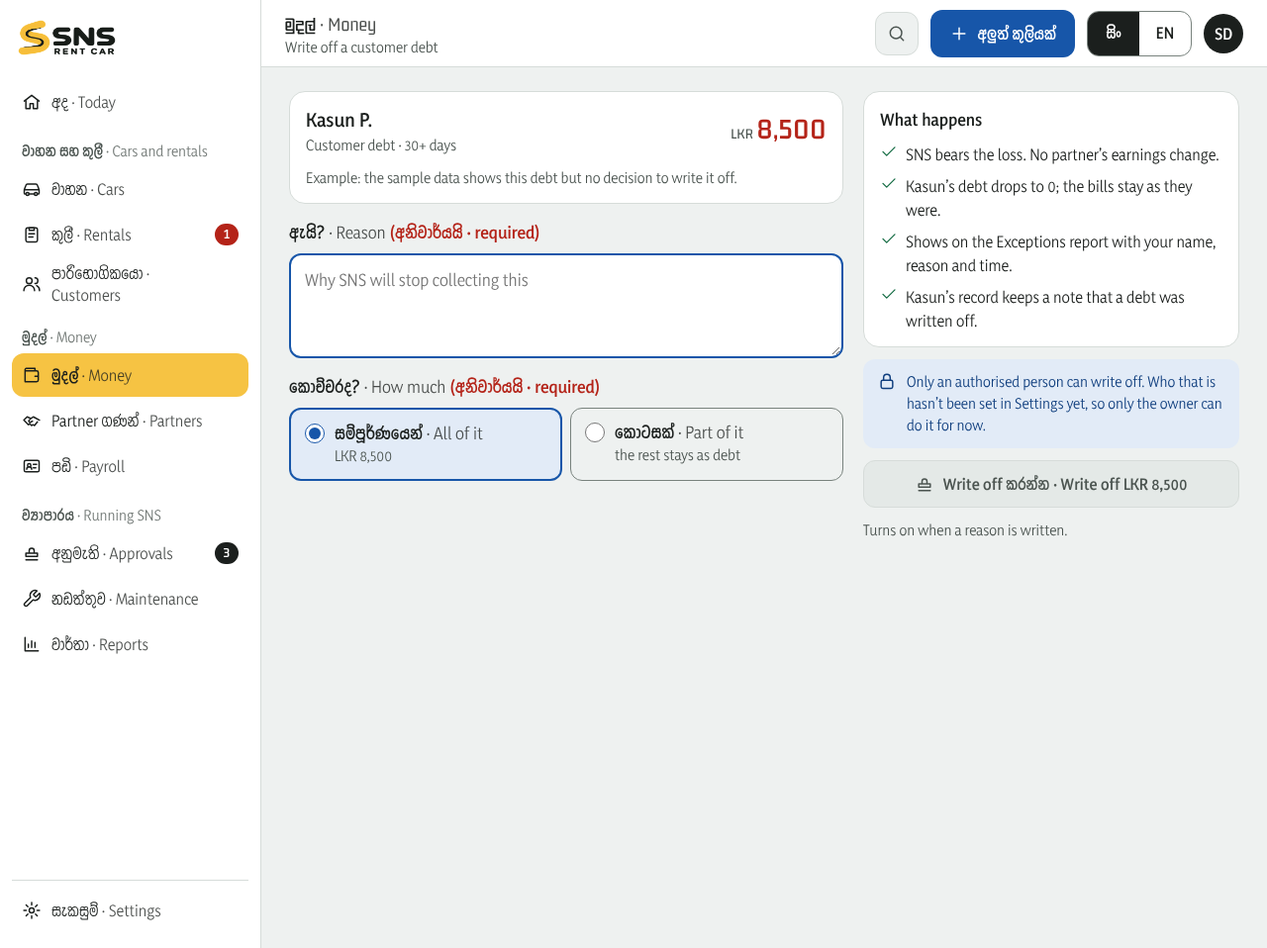
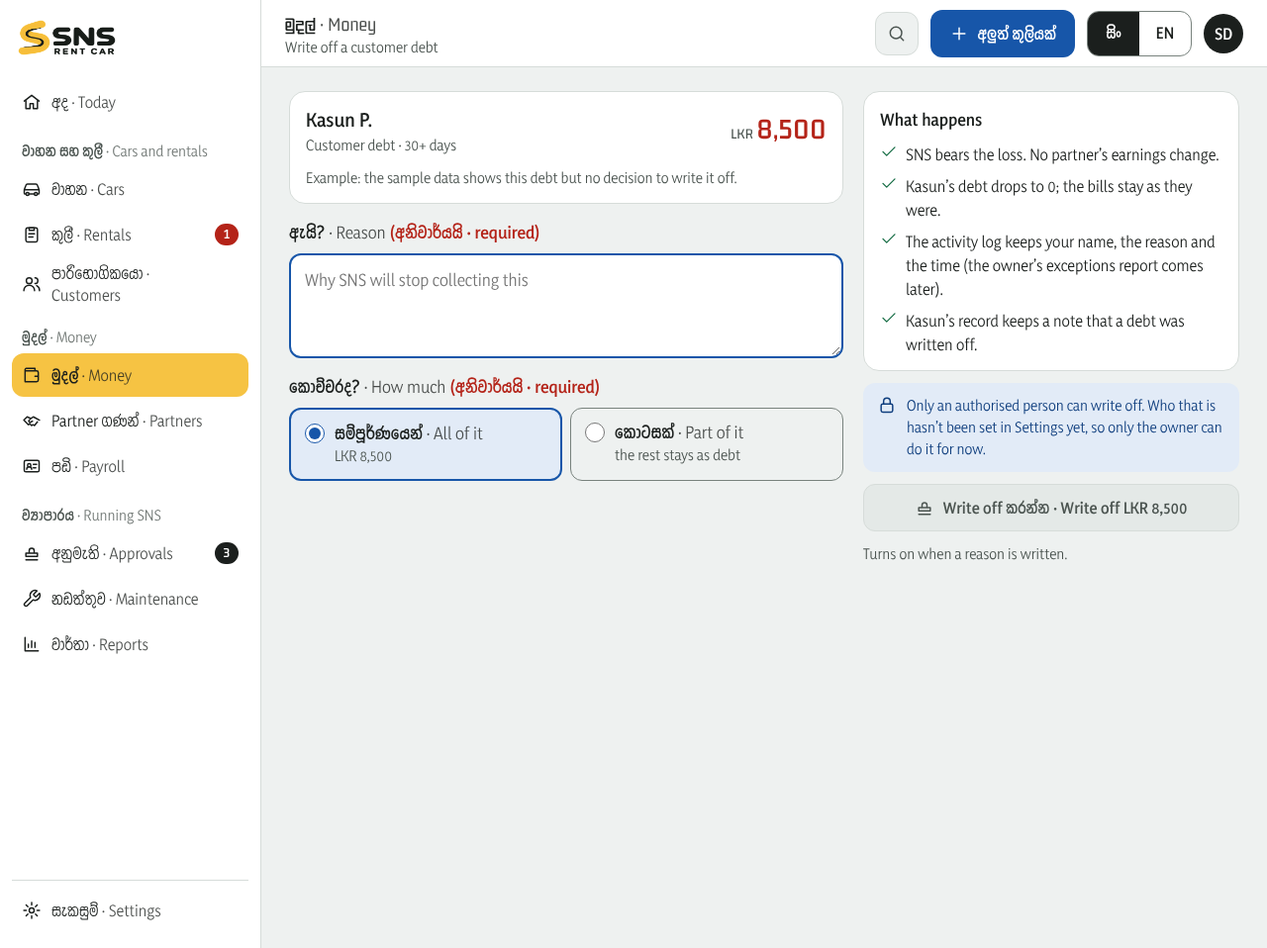
design(screens): 08.6 says the activity log keeps the write-off (#65)
08.6 Write off a debt, Desktop and Phone: "Shows on the Exceptions report"
becomes "The activity log keeps your name, the reason and the time (the
owner's exceptions report comes later)". The exceptions report is Phase 4.

System design 8.3 (Confirmed 11 Nov 2026).
Viewer refreshed: version 40 (1794401340-27f7).

Claude-Session: https://claude.ai/code/session_01JihUABmzkdXJus8B6m8jnW

Changed region(s): [[0.6875, 0.2422, 0.9688, 0.6054]]

diff --git a/screens/previews/html/08-Customers-WriteOff-Desktop.html b/screens/previews/html/08-Customers-WriteOff-Desktop.html
@@ -517,6 +517,16 @@ a.rt-li:hover, a.rt-vrow:hover { background: var(--paper); color: var(--ink); }
   .rt-li-meta { font-size: 14px; }
   .rt-vrow { padding: var(--space-2) 16px; }
 }
+/* TextField: label over a 52px input; required in words; hint and error below (boards 01.1, 01.2). */
+.rt-field { display: flex; flex-direction: column; gap: var(--space-2); min-width: 0; }
+.rt-field-label { font-size: 16px; line-height: 26px; font-weight: 600; }
+.rt-field-req { color: var(--overdue); }
+.rt-input { min-height: 52px; padding: 12px 14px; border: 1.5px solid var(--line-strong); border-radius: var(--radius-md); background: var(--card); color: var(--ink); font: inherit; font-size: 17px; width: 100%; box-sizing: border-box; }
+.rt-input:focus { outline: none; border: 2px solid var(--sapphire); padding: 11.5px 13.5px; }
+.rt-input:focus-visible { outline: 3px solid var(--focus); outline-offset: 2px; }
+.rt-input[aria-invalid="true"] { border-color: var(--overdue); }
+.rt-field-hint { font-size: 14px; line-height: 22px; color: var(--ink-muted); }
+.rt-field-error { font-size: 14px; line-height: 22px; font-weight: 600; color: var(--overdue); }
 </style>
 
 
@@ -537,7 +547,7 @@ a{color:#1756a9}a:hover{color:#0f3e7e}
   <div style="display: flex; flex-direction: column; gap: 8px"><span style="font-size: 16px; line-height: 26px; font-weight: 600">කොච්චරද? <span class="rt-en">· How much</span> <span style="color: var(--overdue)">(අනිවාර්යයි · required)</span></span><div style="display: grid; grid-template-columns: repeat(2, minmax(0, 1fr)); gap: 8px"><label style="display: flex; align-items: flex-start; gap: 10px; padding: 12px 14px; border: 2px solid var(--sapphire); background: var(--sapphire-tint); border-radius: 12px"><input type="radio" checked="" style="width: 20px; height: 20px; margin: 2px 0px 0px; flex: 0 0 auto;"><span style="display: flex; flex-direction: column"><span style="font-size: 16px; line-height: 24px; font-weight: 600">සම්පූර්ණයෙන් <span class="rt-en">· All of it</span></span><span style="font-size: 14px; line-height: 22px; color: var(--ink-muted)">LKR 8,500</span></span></label><label style="display: flex; align-items: flex-start; gap: 10px; padding: 12px 14px; border: 1.5px solid var(--line-strong); border-radius: 12px"><input type="radio" style="width: 20px; height: 20px; margin: 2px 0px 0px; flex: 0 0 auto;"><span style="display: flex; flex-direction: column"><span style="font-size: 16px; line-height: 24px; font-weight: 600">කොටසක් <span class="rt-en">· Part of it</span></span><span style="font-size: 14px; line-height: 22px; color: var(--ink-muted)">the rest stays as debt</span></span></label></div></div>
 </div>
 <div style="flex: 1 1 340px; min-width: 0; display: flex; flex-direction: column; gap: 12px">
-  <section style="display: flex; flex-direction: column; gap: 10px; padding: 14px 16px; background: var(--card); border: 1px solid var(--line); border-radius: 16px"><span style="font-size: 16px; font-weight: 600">What happens</span><div style="display: flex; flex-direction: column; gap: 8px; font-size: 15px; line-height: 24px"><span style="display: flex; gap: 8px"><span data-x-import="Plate.Icon" style="display: contents; flex: none; margin-top: 3px; color: var(--available)"><svg class="rt-ico" width="18" height="18" viewBox="0 0 24 24" fill="none" stroke="currentColor" stroke-width="1.75" stroke-linecap="round" stroke-linejoin="round" aria-hidden="true"><path d="M4 12.5l5 5L20 6.5"></path></svg></span>SNS bears the loss. No partner’s earnings change.</span><span style="display: flex; gap: 8px"><span data-x-import="Plate.Icon" style="display: contents; flex: none; margin-top: 3px; color: var(--available)"><svg class="rt-ico" width="18" height="18" viewBox="0 0 24 24" fill="none" stroke="currentColor" stroke-width="1.75" stroke-linecap="round" stroke-linejoin="round" aria-hidden="true"><path d="M4 12.5l5 5L20 6.5"></path></svg></span>Kasun’s debt drops to 0; the bills stay as they were.</span><span style="display: flex; gap: 8px"><span data-x-import="Plate.Icon" style="display: contents; flex: none; margin-top: 3px; color: var(--available)"><svg class="rt-ico" width="18" height="18" viewBox="0 0 24 24" fill="none" stroke="currentColor" stroke-width="1.75" stroke-linecap="round" stroke-linejoin="round" aria-hidden="true"><path d="M4 12.5l5 5L20 6.5"></path></svg></span>Shows on the Exceptions report with your name, reason and time.</span><span style="display: flex; gap: 8px"><span data-x-import="Plate.Icon" style="display: contents; flex: none; margin-top: 3px; color: var(--available)"><svg class="rt-ico" width="18" height="18" viewBox="0 0 24 24" fill="none" stroke="currentColor" stroke-width="1.75" stroke-linecap="round" stroke-linejoin="round" aria-hidden="true"><path d="M4 12.5l5 5L20 6.5"></path></svg></span>Kasun’s record keeps a note that a debt was written off.</span></div></section>
+  <section style="display: flex; flex-direction: column; gap: 10px; padding: 14px 16px; background: var(--card); border: 1px solid var(--line); border-radius: 16px"><span style="font-size: 16px; font-weight: 600">What happens</span><div style="display: flex; flex-direction: column; gap: 8px; font-size: 15px; line-height: 24px"><span style="display: flex; gap: 8px"><span data-x-import="Plate.Icon" style="display: contents; flex: none; margin-top: 3px; color: var(--available)"><svg class="rt-ico" width="18" height="18" viewBox="0 0 24 24" fill="none" stroke="currentColor" stroke-width="1.75" stroke-linecap="round" stroke-linejoin="round" aria-hidden="true"><path d="M4 12.5l5 5L20 6.5"></path></svg></span>SNS bears the loss. No partner’s earnings change.</span><span style="display: flex; gap: 8px"><span data-x-import="Plate.Icon" style="display: contents; flex: none; margin-top: 3px; color: var(--available)"><svg class="rt-ico" width="18" height="18" viewBox="0 0 24 24" fill="none" stroke="currentColor" stroke-width="1.75" stroke-linecap="round" stroke-linejoin="round" aria-hidden="true"><path d="M4 12.5l5 5L20 6.5"></path></svg></span>Kasun’s debt drops to 0; the bills stay as they were.</span><span style="display: flex; gap: 8px"><span data-x-import="Plate.Icon" style="display: contents; flex: none; margin-top: 3px; color: var(--available)"><svg class="rt-ico" width="18" height="18" viewBox="0 0 24 24" fill="none" stroke="currentColor" stroke-width="1.75" stroke-linecap="round" stroke-linejoin="round" aria-hidden="true"><path d="M4 12.5l5 5L20 6.5"></path></svg></span>The activity log keeps your name, the reason and the time (the owner’s exceptions report comes later).</span><span style="display: flex; gap: 8px"><span data-x-import="Plate.Icon" style="display: contents; flex: none; margin-top: 3px; color: var(--available)"><svg class="rt-ico" width="18" height="18" viewBox="0 0 24 24" fill="none" stroke="currentColor" stroke-width="1.75" stroke-linecap="round" stroke-linejoin="round" aria-hidden="true"><path d="M4 12.5l5 5L20 6.5"></path></svg></span>Kasun’s record keeps a note that a debt was written off.</span></div></section>
   <div style="display: flex; gap: 10px; padding: 12px 14px; background: var(--sapphire-tint); border-radius: 12px; font-size: 14px; line-height: 22px; color: var(--sapphire-strong)"><span data-x-import="Plate.Icon" style="display: contents; flex: none"><svg class="rt-ico" width="20" height="20" viewBox="0 0 24 24" fill="none" stroke="currentColor" stroke-width="1.75" stroke-linecap="round" stroke-linejoin="round" aria-hidden="true"><rect x="5" y="11" width="14" height="10" rx="2"></rect><path d="M8 11V8a4 4 0 0 1 8 0v3"></path></svg></span><span>Only an authorised person can write off. Who that is hasn’t been set in Settings yet, so only the owner can do it for now.</span></div>
   <span data-x-import="Plate.Button" style="display: contents;"><button disabled="" type="button" class="rt-btn rt-btn-primary rt-btn-full"><svg class="rt-ico" width="20" height="20" viewBox="0 0 24 24" fill="none" stroke="currentColor" stroke-width="1.75" stroke-linecap="round" stroke-linejoin="round" aria-hidden="true"><path d="M9 12V9a3 3 0 1 1 6 0v3M5 12h14v4H5zM5 20h14"></path></svg><span><span style="display: contents;">Write off කරන්න · Write off LKR 8,500</span></span></button></span>
   <span style="font-size: 14px; line-height: 22px; color: var(--ink-muted)">Turns on when a reason is written.</span>

diff --git a/screens/previews/html/08-Customers-WriteOff-Phone.html b/screens/previews/html/08-Customers-WriteOff-Phone.html
@@ -517,6 +517,16 @@ a.rt-li:hover, a.rt-vrow:hover { background: var(--paper); color: var(--ink); }
   .rt-li-meta { font-size: 14px; }
   .rt-vrow { padding: var(--space-2) 16px; }
 }
+/* TextField: label over a 52px input; required in words; hint and error below (boards 01.1, 01.2). */
+.rt-field { display: flex; flex-direction: column; gap: var(--space-2); min-width: 0; }
+.rt-field-label { font-size: 16px; line-height: 26px; font-weight: 600; }
+.rt-field-req { color: var(--overdue); }
+.rt-input { min-height: 52px; padding: 12px 14px; border: 1.5px solid var(--line-strong); border-radius: var(--radius-md); background: var(--card); color: var(--ink); font: inherit; font-size: 17px; width: 100%; box-sizing: border-box; }
+.rt-input:focus { outline: none; border: 2px solid var(--sapphire); padding: 11.5px 13.5px; }
+.rt-input:focus-visible { outline: 3px solid var(--focus); outline-offset: 2px; }
+.rt-input[aria-invalid="true"] { border-color: var(--overdue); }
+.rt-field-hint { font-size: 14px; line-height: 22px; color: var(--ink-muted); }
+.rt-field-error { font-size: 14px; line-height: 22px; font-weight: 600; color: var(--overdue); }
 </style>
 
 
@@ -546,7 +556,7 @@ a{color:#1756a9}a:hover{color:#0f3e7e}
 <div style="display: flex; flex-direction: column; gap: 8px"><span style="font-size: 16px; line-height: 26px; font-weight: 600">කොච්චරද? <span class="rt-en">· How much</span> <span style="color: var(--overdue)">(අනිවාර්යයි · required)</span></span><div style="display: grid; grid-template-columns: repeat(2, minmax(0, 1fr)); gap: 8px"><label style="display: flex; align-items: flex-start; gap: 10px; padding: 12px 14px; border: 2px solid var(--sapphire); background: var(--sapphire-tint); border-radius: 12px"><input checked="" style="width: 20px; height: 20px; margin: 2px 0px 0px; flex: 0 0 auto;" type="radio"><span style="display: flex; flex-direction: column"><span style="font-size: 16px; line-height: 24px; font-weight: 600">සම්පූර්ණයෙන් <span class="rt-en">· All of it</span></span><span style="font-size: 14px; line-height: 22px; color: var(--ink-muted)">LKR 8,500</span></span></label><label style="display: flex; align-items: flex-start; gap: 10px; padding: 12px 14px; border: 1.5px solid var(--line-strong); border-radius: 12px"><input style="width: 20px; height: 20px; margin: 2px 0px 0px; flex: 0 0 auto;" type="radio"><span style="display: flex; flex-direction: column"><span style="font-size: 16px; line-height: 24px; font-weight: 600">කොටසක් <span class="rt-en">· Part of it</span></span><span style="font-size: 14px; line-height: 22px; color: var(--ink-muted)">the rest stays as debt</span></span></label></div></div>
 </div>
 <div style="flex: 1 1 340px; min-width: 0; display: flex; flex-direction: column; gap: 12px">
-<section style="display: flex; flex-direction: column; gap: 10px; padding: 14px 16px; background: var(--card); border: 1px solid var(--line); border-radius: 16px"><span style="font-size: 16px; font-weight: 600">What happens</span><div style="display: flex; flex-direction: column; gap: 8px; font-size: 15px; line-height: 24px"><span style="display: flex; gap: 8px"><span data-x-import="Plate.Icon" style="display: contents; flex: none; margin-top: 3px; color: var(--available)"><svg class="rt-ico" width="18" height="18" viewBox="0 0 24 24" fill="none" stroke="currentColor" stroke-width="1.75" stroke-linecap="round" stroke-linejoin="round" aria-hidden="true"><path d="M4 12.5l5 5L20 6.5"></path></svg></span>SNS bears the loss. No partner’s earnings change.</span><span style="display: flex; gap: 8px"><span data-x-import="Plate.Icon" style="display: contents; flex: none; margin-top: 3px; color: var(--available)"><svg class="rt-ico" width="18" height="18" viewBox="0 0 24 24" fill="none" stroke="currentColor" stroke-width="1.75" stroke-linecap="round" stroke-linejoin="round" aria-hidden="true"><path d="M4 12.5l5 5L20 6.5"></path></svg></span>Kasun’s debt drops to 0; the bills stay as they were.</span><span style="display: flex; gap: 8px"><span data-x-import="Plate.Icon" style="display: contents; flex: none; margin-top: 3px; color: var(--available)"><svg class="rt-ico" width="18" height="18" viewBox="0 0 24 24" fill="none" stroke="currentColor" stroke-width="1.75" stroke-linecap="round" stroke-linejoin="round" aria-hidden="true"><path d="M4 12.5l5 5L20 6.5"></path></svg></span>Shows on the Exceptions report with your name, reason and time.</span><span style="display: flex; gap: 8px"><span data-x-import="Plate.Icon" style="display: contents; flex: none; margin-top: 3px; color: var(--available)"><svg class="rt-ico" width="18" height="18" viewBox="0 0 24 24" fill="none" stroke="currentColor" stroke-width="1.75" stroke-linecap="round" stroke-linejoin="round" aria-hidden="true"><path d="M4 12.5l5 5L20 6.5"></path></svg></span>Kasun’s record keeps a note that a debt was written off.</span></div></section>
+<section style="display: flex; flex-direction: column; gap: 10px; padding: 14px 16px; background: var(--card); border: 1px solid var(--line); border-radius: 16px"><span style="font-size: 16px; font-weight: 600">What happens</span><div style="display: flex; flex-direction: column; gap: 8px; font-size: 15px; line-height: 24px"><span style="display: flex; gap: 8px"><span data-x-import="Plate.Icon" style="display: contents; flex: none; margin-top: 3px; color: var(--available)"><svg class="rt-ico" width="18" height="18" viewBox="0 0 24 24" fill="none" stroke="currentColor" stroke-width="1.75" stroke-linecap="round" stroke-linejoin="round" aria-hidden="true"><path d="M4 12.5l5 5L20 6.5"></path></svg></span>SNS bears the loss. No partner’s earnings change.</span><span style="display: flex; gap: 8px"><span data-x-import="Plate.Icon" style="display: contents; flex: none; margin-top: 3px; color: var(--available)"><svg class="rt-ico" width="18" height="18" viewBox="0 0 24 24" fill="none" stroke="currentColor" stroke-width="1.75" stroke-linecap="round" stroke-linejoin="round" aria-hidden="true"><path d="M4 12.5l5 5L20 6.5"></path></svg></span>Kasun’s debt drops to 0; the bills stay as they were.</span><span style="display: flex; gap: 8px"><span data-x-import="Plate.Icon" style="display: contents; flex: none; margin-top: 3px; color: var(--available)"><svg class="rt-ico" width="18" height="18" viewBox="0 0 24 24" fill="none" stroke="currentColor" stroke-width="1.75" stroke-linecap="round" stroke-linejoin="round" aria-hidden="true"><path d="M4 12.5l5 5L20 6.5"></path></svg></span>The activity log keeps your name, the reason and the time (the owner’s exceptions report comes later).</span><span style="display: flex; gap: 8px"><span data-x-import="Plate.Icon" style="display: contents; flex: none; margin-top: 3px; color: var(--available)"><svg class="rt-ico" width="18" height="18" viewBox="0 0 24 24" fill="none" stroke="currentColor" stroke-width="1.75" stroke-linecap="round" stroke-linejoin="round" aria-hidden="true"><path d="M4 12.5l5 5L20 6.5"></path></svg></span>Kasun’s record keeps a note that a debt was written off.</span></div></section>
 <div style="display: flex; gap: 10px; padding: 12px 14px; background: var(--sapphire-tint); border-radius: 12px; font-size: 14px; line-height: 22px; color: var(--sapphire-strong)"><span data-x-import="Plate.Icon" style="display: contents; flex: none"><svg class="rt-ico" width="20" height="20" viewBox="0 0 24 24" fill="none" stroke="currentColor" stroke-width="1.75" stroke-linecap="round" stroke-linejoin="round" aria-hidden="true"><rect x="5" y="11" width="14" height="10" rx="2"></rect><path d="M8 11V8a4 4 0 0 1 8 0v3"></path></svg></span><span>Only an authorised person can write off. Who that is hasn’t been set in Settings yet, so only the owner can do it for now.</span></div>
 <span data-x-import="Plate.Button" style="display: contents;"><button disabled="" type="button" class="rt-btn rt-btn-primary rt-btn-full"><svg class="rt-ico" width="20" height="20" viewBox="0 0 24 24" fill="none" stroke="currentColor" stroke-width="1.75" stroke-linecap="round" stroke-linejoin="round" aria-hidden="true"><path d="M9 12V9a3 3 0 1 1 6 0v3M5 12h14v4H5zM5 20h14"></path></svg><span><span style="display: contents;">Write off කරන්න · Write off LKR 8,500</span></span></button></span>
 <span style="font-size: 14px; line-height: 22px; color: var(--ink-muted)">Turns on when a reason is written.</span>

diff --git a/screens/canvas/08-Customers-WriteOff-Phone.dc.html b/screens/canvas/08-Customers-WriteOff-Phone.dc.html
@@ -36,7 +36,7 @@ a{color:#1756a9}a:hover{color:#0f3e7e}
 <div style="display: flex; flex-direction: column; gap: 8px"><span style="font-size: 16px; line-height: 26px; font-weight: 600">කොච්චරද? <span class="rt-en">· How much</span> <span style="color: var(--overdue)">(අනිවාර්යයි · required)</span></span><div style="display: grid; grid-template-columns: repeat(2, minmax(0, 1fr)); gap: 8px"><label style="display: flex; align-items: flex-start; gap: 10px; padding: 12px 14px; border: 2px solid var(--sapphire); background: var(--sapphire-tint); border-radius: 12px"><input checked="" style="width: 20px; height: 20px; margin: 2px 0 0; flex: none" type="radio"/><span style="display: flex; flex-direction: column"><span style="font-size: 16px; line-height: 24px; font-weight: 600">සම්පූර්ණයෙන් <span class="rt-en">· All of it</span></span><span style="font-size: 14px; line-height: 22px; color: var(--ink-muted)">LKR 8,500</span></span></label><label style="display: flex; align-items: flex-start; gap: 10px; padding: 12px 14px; border: 1.5px solid var(--line-strong); border-radius: 12px"><input style="width: 20px; height: 20px; margin: 2px 0 0; flex: none" type="radio"/><span style="display: flex; flex-direction: column"><span style="font-size: 16px; line-height: 24px; font-weight: 600">කොටසක් <span class="rt-en">· Part of it</span></span><span style="font-size: 14px; line-height: 22px; color: var(--ink-muted)">the rest stays as debt</span></span></label></div></div>
 </div>
 <div style="flex: 1 1 340px; min-width: 0; display: flex; flex-direction: column; gap: 12px">
-<section style="display: flex; flex-direction: column; gap: 10px; padding: 14px 16px; background: var(--card); border: 1px solid var(--line); border-radius: 16px"><span style="font-size: 16px; font-weight: 600">What happens</span><div style="display: flex; flex-direction: column; gap: 8px; font-size: 15px; line-height: 24px"><span style="display: flex; gap: 8px"><x-import component-from-global-scope="Plate.Icon" name="check" size="{{eighteen}}" style="flex: none; margin-top: 3px; color: var(--available)"></x-import>SNS bears the loss. No partner’s earnings change.</span><span style="display: flex; gap: 8px"><x-import component-from-global-scope="Plate.Icon" name="check" size="{{eighteen}}" style="flex: none; margin-top: 3px; color: var(--available)"></x-import>Kasun’s debt drops to 0; the bills stay as they were.</span><span style="display: flex; gap: 8px"><x-import component-from-global-scope="Plate.Icon" name="check" size="{{eighteen}}" style="flex: none; margin-top: 3px; color: var(--available)"></x-import>Shows on the Exceptions report with your name, reason and time.</span><span style="display: flex; gap: 8px"><x-import component-from-global-scope="Plate.Icon" name="check" size="{{eighteen}}" style="flex: none; margin-top: 3px; color: var(--available)"></x-import>Kasun’s record keeps a note that a debt was written off.</span></div></section>
+<section style="display: flex; flex-direction: column; gap: 10px; padding: 14px 16px; background: var(--card); border: 1px solid var(--line); border-radius: 16px"><span style="font-size: 16px; font-weight: 600">What happens</span><div style="display: flex; flex-direction: column; gap: 8px; font-size: 15px; line-height: 24px"><span style="display: flex; gap: 8px"><x-import component-from-global-scope="Plate.Icon" name="check" size="{{eighteen}}" style="flex: none; margin-top: 3px; color: var(--available)"></x-import>SNS bears the loss. No partner’s earnings change.</span><span style="display: flex; gap: 8px"><x-import component-from-global-scope="Plate.Icon" name="check" size="{{eighteen}}" style="flex: none; margin-top: 3px; color: var(--available)"></x-import>Kasun’s debt drops to 0; the bills stay as they were.</span><span style="display: flex; gap: 8px"><x-import component-from-global-scope="Plate.Icon" name="check" size="{{eighteen}}" style="flex: none; margin-top: 3px; color: var(--available)"></x-import>The activity log keeps your name, the reason and the time (the owner’s exceptions report comes later).</span><span style="display: flex; gap: 8px"><x-import component-from-global-scope="Plate.Icon" name="check" size="{{eighteen}}" style="flex: none; margin-top: 3px; color: var(--available)"></x-import>Kasun’s record keeps a note that a debt was written off.</span></div></section>
 <div style="display: flex; gap: 10px; padding: 12px 14px; background: var(--sapphire-tint); border-radius: 12px; font-size: 14px; line-height: 22px; color: var(--sapphire-strong)"><x-import component-from-global-scope="Plate.Icon" name="lock" size="{{twenty}}" style="flex: none"></x-import><span>Only an authorised person can write off. Who that is hasn’t been set in Settings yet, so only the owner can do it for now.</span></div>
 <x-import component-from-global-scope="Plate.Button" disabled="{{yes}}" full="{{yes}}" icon="stamp">Write off කරන්න · Write off LKR 8,500</x-import>
 <span style="font-size: 14px; line-height: 22px; color: var(--ink-muted)">Turns on when a reason is written.</span>
@@ -44,7 +44,7 @@ a{color:#1756a9}a:hover{color:#0f3e7e}
   <x-import component-from-global-scope="Plate.BottomTabBar" tabs="{{tabsNav}}"></x-import>
 </div>
 </x-dc>
-<script type="text/x-dc" data-dc-script data-props='{"$preview":{"width":390,"height":1147}}'>
+<script type="text/x-dc" data-dc-script data-props='{"$preview":{"width":390,"height":1155}}'>
 class Component extends DCLogic {
   renderVals() {
     return { tabsNav: [{"icon": "car", "label": "වාහන", "href": "02-Home-OwnerHome-Phone.dc.html"}, {"icon": "flag", "label": "අවධානයට", "href": "02-Home-NeedsAttention-Phone.dc.html", "badge": "2"}, {"icon": "wallet", "label": "මුදල්", "href": "09-Money-MoneyToday-Phone.dc.html", "active": true}, {"icon": "stamp", "label": "අනුමැති", "href": "10-Approvals-Approvals-Phone.dc.html", "badge": "3"}, {"icon": "more", "label": "තවත්", "href": "02-Home-OwnerMore-Phone.dc.html"}], yes: true, eighteen: 18, twenty: 20, twentytwo: 22, twentyfour: 24, twentysix: 26,

diff --git a/screens/canvas/08-Customers-WriteOff-Desktop.dc.html b/screens/canvas/08-Customers-WriteOff-Desktop.dc.html
@@ -27,7 +27,7 @@ a{color:#1756a9}a:hover{color:#0f3e7e}
   <div style="display: flex; flex-direction: column; gap: 8px"><span style="font-size: 16px; line-height: 26px; font-weight: 600">කොච්චරද? <span class="rt-en">· How much</span> <span style="color: var(--overdue)">(අනිවාර්යයි · required)</span></span><div style="display: grid; grid-template-columns: repeat(2, minmax(0, 1fr)); gap: 8px"><label style="display: flex; align-items: flex-start; gap: 10px; padding: 12px 14px; border: 2px solid var(--sapphire); background: var(--sapphire-tint); border-radius: 12px"><input type="radio" checked  style="width: 20px; height: 20px; margin: 2px 0 0; flex: none"><span style="display: flex; flex-direction: column"><span style="font-size: 16px; line-height: 24px; font-weight: 600">සම්පූර්ණයෙන් <span class="rt-en">· All of it</span></span><span style="font-size: 14px; line-height: 22px; color: var(--ink-muted)">LKR 8,500</span></span></label><label style="display: flex; align-items: flex-start; gap: 10px; padding: 12px 14px; border: 1.5px solid var(--line-strong); border-radius: 12px"><input type="radio"   style="width: 20px; height: 20px; margin: 2px 0 0; flex: none"><span style="display: flex; flex-direction: column"><span style="font-size: 16px; line-height: 24px; font-weight: 600">කොටසක් <span class="rt-en">· Part of it</span></span><span style="font-size: 14px; line-height: 22px; color: var(--ink-muted)">the rest stays as debt</span></span></label></div></div>
 </div>
 <div style="flex: 1 1 340px; min-width: 0; display: flex; flex-direction: column; gap: 12px">
-  <section style="display: flex; flex-direction: column; gap: 10px; padding: 14px 16px; background: var(--card); border: 1px solid var(--line); border-radius: 16px"><span style="font-size: 16px; font-weight: 600">What happens</span><div style="display: flex; flex-direction: column; gap: 8px; font-size: 15px; line-height: 24px"><span style="display: flex; gap: 8px"><x-import component-from-global-scope="Plate.Icon" name="check" size="{{eighteen}}" style="flex: none; margin-top: 3px; color: var(--available)"></x-import>SNS bears the loss. No partner’s earnings change.</span><span style="display: flex; gap: 8px"><x-import component-from-global-scope="Plate.Icon" name="check" size="{{eighteen}}" style="flex: none; margin-top: 3px; color: var(--available)"></x-import>Kasun’s debt drops to 0; the bills stay as they were.</span><span style="display: flex; gap: 8px"><x-import component-from-global-scope="Plate.Icon" name="check" size="{{eighteen}}" style="flex: none; margin-top: 3px; color: var(--available)"></x-import>Shows on the Exceptions report with your name, reason and time.</span><span style="display: flex; gap: 8px"><x-import component-from-global-scope="Plate.Icon" name="check" size="{{eighteen}}" style="flex: none; margin-top: 3px; color: var(--available)"></x-import>Kasun’s record keeps a note that a debt was written off.</span></div></section>
+  <section style="display: flex; flex-direction: column; gap: 10px; padding: 14px 16px; background: var(--card); border: 1px solid var(--line); border-radius: 16px"><span style="font-size: 16px; font-weight: 600">What happens</span><div style="display: flex; flex-direction: column; gap: 8px; font-size: 15px; line-height: 24px"><span style="display: flex; gap: 8px"><x-import component-from-global-scope="Plate.Icon" name="check" size="{{eighteen}}" style="flex: none; margin-top: 3px; color: var(--available)"></x-import>SNS bears the loss. No partner’s earnings change.</span><span style="display: flex; gap: 8px"><x-import component-from-global-scope="Plate.Icon" name="check" size="{{eighteen}}" style="flex: none; margin-top: 3px; color: var(--available)"></x-import>Kasun’s debt drops to 0; the bills stay as they were.</span><span style="display: flex; gap: 8px"><x-import component-from-global-scope="Plate.Icon" name="check" size="{{eighteen}}" style="flex: none; margin-top: 3px; color: var(--available)"></x-import>The activity log keeps your name, the reason and the time (the owner’s exceptions report comes later).</span><span style="display: flex; gap: 8px"><x-import component-from-global-scope="Plate.Icon" name="check" size="{{eighteen}}" style="flex: none; margin-top: 3px; color: var(--available)"></x-import>Kasun’s record keeps a note that a debt was written off.</span></div></section>
   <div style="display: flex; gap: 10px; padding: 12px 14px; background: var(--sapphire-tint); border-radius: 12px; font-size: 14px; line-height: 22px; color: var(--sapphire-strong)"><x-import component-from-global-scope="Plate.Icon" name="lock" size="{{twenty}}" style="flex: none"></x-import><span>Only an authorised person can write off. Who that is hasn’t been set in Settings yet, so only the owner can do it for now.</span></div>
   <x-import component-from-global-scope="Plate.Button" icon="stamp" full="{{yes}}" disabled="{{yes}}">Write off කරන්න · Write off LKR 8,500</x-import>
   <span style="font-size: 14px; line-height: 22px; color: var(--ink-muted)">Turns on when a reason is written.</span>
